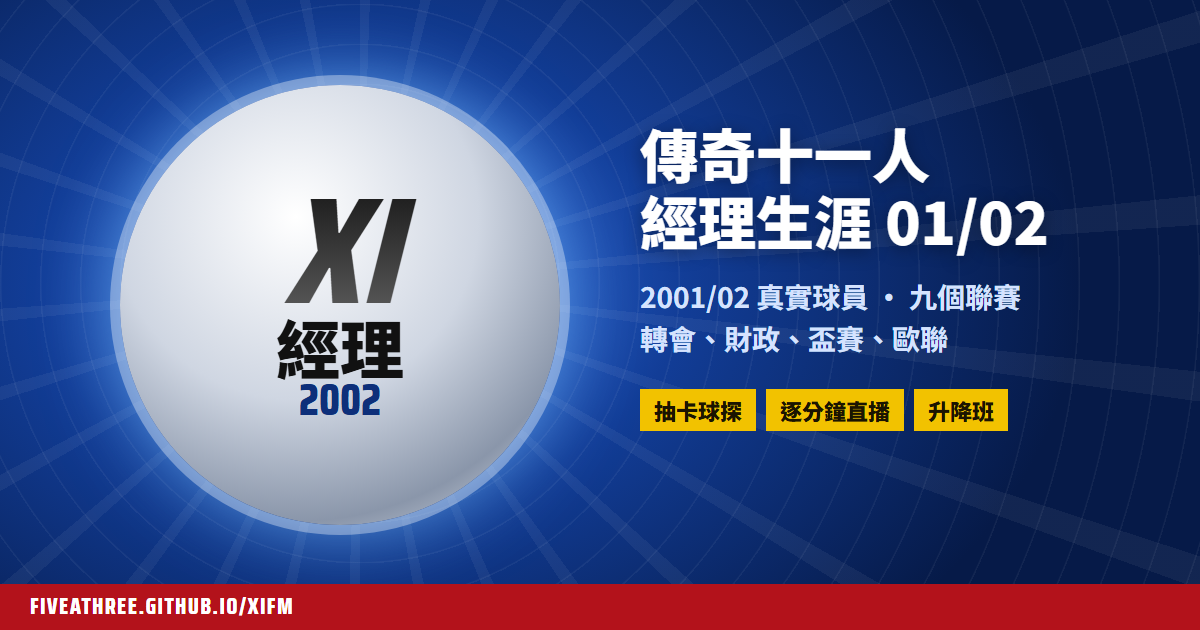
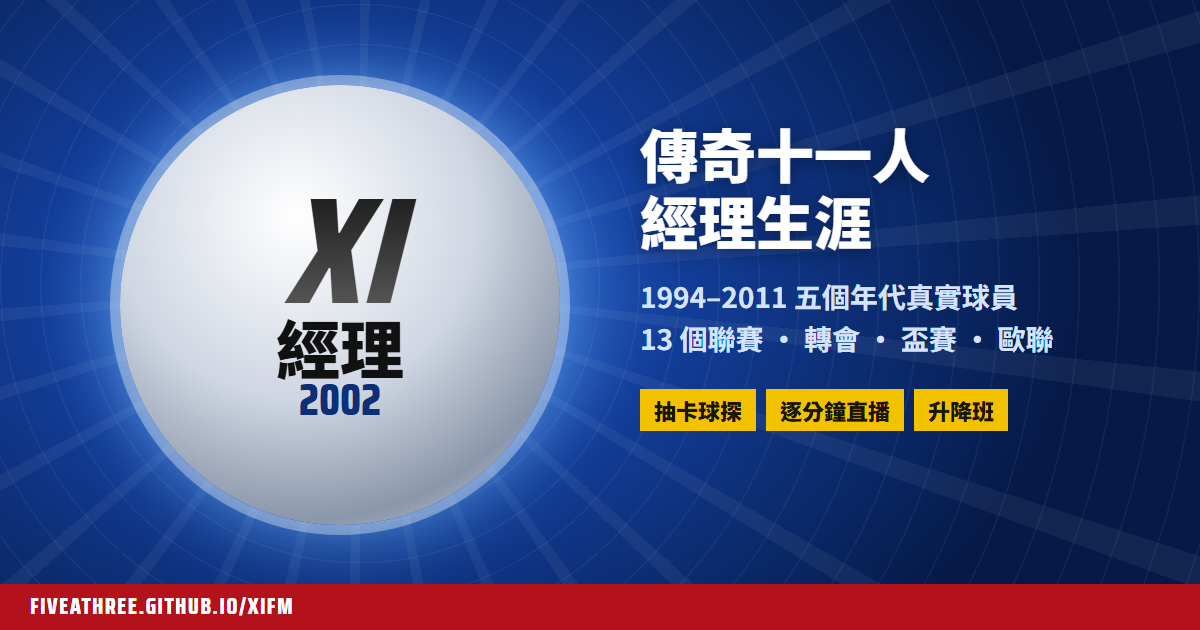
Career mode docs and share image for five eras and 13 leagues

Changed region(s): [[0.5242, 0.4524, 0.8942, 0.573], [0.74, 0.3016, 0.8942, 0.3921]]

diff --git a/fm.html b/fm.html
@@ -4,10 +4,10 @@
 <meta charset="utf-8">
 <meta name="viewport" content="width=device-width,initial-scale=1,viewport-fit=cover">
 <title>XI 經理 2002</title>
-<meta name="description" content="傳奇十一人經理生涯：2001/02 球季真實球員，英格蘭四級聯賽、蘇超、西甲、意甲、德甲、法甲，轉會、財政、盃賽、歐聯，再加抽卡球探。">
+<meta name="description" content="傳奇十一人經理生涯：1994/95 至 2010/11 五個開局球季真實球員，英格蘭四級聯賽、蘇超、西甲、意甲、德甲、法甲、荷甲、葡超、土超、比甲，轉會、財政、盃賽、歐聯，再加抽卡球探。">
 <meta property="og:type" content="website">
 <meta property="og:title" content="XI 經理 2002 · 傳奇十一人經理生涯">
-<meta property="og:description" content="2001/02 真實球員、九個聯賽、轉會財政盃賽歐聯，仲有抽卡球探。">
+<meta property="og:description" content="五個年代真實球員、13 個聯賽、轉會財政盃賽歐聯，仲有抽卡球探。">
 <meta property="og:image" content="https://fiveathree.github.io/XIFM/og-fm.png">
 <meta property="og:url" content="https://fiveathree.github.io/XIFM/fm.html">
 <meta name="twitter:card" content="summary_large_image">

diff --git a/index.html b/index.html
@@ -276,7 +276,7 @@ select{background:var(--night2);border:1px solid var(--line);color:var(--chalk);
   <div class="wrap">
     <div class="hbar">
       <div class="logo">傳奇<b>XI</b><small>FOOTBALL MANAGER</small></div>
-      <a class="fmlink" href="fm.html">經理生涯 01/02 ›</a>
+      <a class="fmlink" href="fm.html">經理生涯 ›</a>
       <div class="coins" title="金幣"><span class="coin"></span><span id="coinv">0</span></div>
     </div>
     <nav class="tabs" role="tablist">

diff --git a/fm/PLAN.md b/fm/PLAN.md
@@ -4,9 +4,9 @@ Goal: a new mode inside XIFM that plays like **EA Sports' *The F.A. Premier Leag
 
 Decisions already made by the user:
 - Lives **inside XIFM as a separate page** `fm.html` (own save, own economy). XIFM's `index.html` gets an entry button.
-- Leagues in v1: **England Premier League + Divisions One/Two/Three, Scottish Premier League, La Liga, Serie A, Bundesliga, French Division 1**, plus 18 European guest clubs for European cups.
+- Leagues: **England Premier League + Divisions One/Two/Three, Scottish Premier League, La Liga, Serie A, Bundesliga, French Division 1, Eredivisie, Portuguese, Turkish and Belgian top flights**, plus 18 European guest clubs for European cups. (The last four were added in Nov 2026; saves made before keep their nine leagues.)
 - **Transfers stay**; gacha is an **extra channel**: a pulled player joins your club straight away (takes a squad place, draws a wage), paid for with club money.
-- **Start with 2001/02 only**; add real new players one season at a time later.
+- **Start seasons (eras): 1994/95, 1998/99, 2001/02, 2004/05, 2010/11**, each with its own real squads (`fm/eras.js`, `fm/data/<year>/`). 2001/02 has the deepest data (~3,700 players); the other eras cover the big clubs well and lower divisions thinly (see DATA_SPEC.md).
 - Follow the user's coding principles: least code, browser-native features first, no framework, no build step. Every page needs a favicon and an og:image. Aim for one screen without page scrolling (panels may scroll inside).
 
 Legal: do **not** use EA / Premier League names, logos or crests, or real club crests. Club badges are generic shields in club colours with the 3-letter short name. Real player and club names are fine. Screen layout may follow the 2001 game's structure, but the art is our own.
@@ -42,6 +42,8 @@ Data quality notes (tell the user, don't hide): Division Three and some small Bu
 
 ## 2. Architecture (keep it)
 
+**Eras** — `fm.html` loads `fm/eras.js`, `core.js`, `match.js`, `ui.js`; `ui.js` then loads one era's data files and calls `indexEra(year)` (core) which fills `LG CL PS CLUBS PLAY_LG` and `ERA` (real CL groups `ERA.cl`, English UEFA entrants `ERA.ueEng`). Switching era reloads with `?era=YYYY` (`&new=1` opens the wizard, `&slot=k` loads a save). A save stores `G.era` and its league list `G.plg`; game-state loops use `PLG()` / `GCL()` (not `PLAY_LG` / `CLUBS`) so old saves without the new leagues keep working. The calendar is the 2001/02 one shifted by 364 days per season, earlier or later. Europe: first season uses `ERA.cl` when given, otherwise qualifiers by reputation (`QSPOTS` per league); later seasons use last season's table.
+
 Plain `<script>` tags, globals, no modules: `FM` registry → `fm/data/*.js` → `fm/core.js` → `fm/match.js` → `fm/ui.js`.
 
 **IDs**
@@ -60,7 +62,7 @@ Plain `<script>` tags, globals, no modules: `FM` registry → `fm/data/*.js` →
 
 **Competitions** (`G.comp`): `t:'L'` league (`tab`), `t:'K'` knockout (`rd` rounds, `ties`, `alive`), `t:'G'` Champions League (8 groups of 4 → two-legged knockout; group thirds drop into UEFA Cup round 3). 2001/02 CL groups are the real ones (`CL01`). Cups: FA Cup, League Cup, Scottish Cup, Copa del Rey, Coppa Italia, DFB-Pokal, Coupe de France, CL, UEFA Cup, English play-offs (po2/po3/po4). Single-leg cup draws go to extra time + penalties (no replays). Clashes are moved by `resolveClashes()`.
 
-**Promotion**: England only (3 down/2 up + play-off winner; Div 2↔3 4 down/3 up + play-off). No relegation out of Division Three, and none in the other countries (no lower divisions in the data).
+**Promotion**: England only (3 down/2 up + play-off winner; Div 2↔3 4 down/3 up + play-off). No relegation out of Division Three, and none in the other countries (no lower divisions in the data). League sizes therefore stay as they start (e.g. the 1994/95 Premier League stays at 22).
 
 **Match engine** (`match.js`): `newMatch(fx, live)` → `step(M)` per minute → `M.pause` = `'ht'` / `'et'` stops a live game until the UI clears it → `finish()` writes results, stats, form, cards/suspensions, injuries, then `recordResult()` in core. Live helpers for the UI: `userSub(M,out,in)`, `userSwap(M,a,b)`, `userForm(M,form)`, and `M[M.u].sty` / `.ord` can be edited mid-match. `runToEnd(M)` = "skip to full time" (AI makes the user's subs). `M.ev` events: `goal miss save tackle yc rc rc2 inj sub ht et pens pmiss ft` with `m` (minute label), `s` ('h'/'a'), `p`, `p2`, `x`. `M.ball` = [x%, y%] for the pitch drawing. `M.mom` = man of the match.
 

diff --git a/fm/DATA_SPEC.md b/fm/DATA_SPEC.md
@@ -60,3 +60,26 @@ Use the player's level IN 2001/02 (age-appropriate: a 17-year-old future star is
 - No player may appear at two clubs in your file.
 - Target squad sizes: top flights 22–28; Division One 18–25; Divisions Two/Three as many as you genuinely recall (aim 14+). Include at least 2 GK per club where you can.
 - Players on loan elsewhere for the whole season belong at the club they played for.
+
+## Eras (start seasons) and the extra leagues
+
+- Each start season has its own folder and entry in `fm/eras.js`: 2001/02 lives in `fm/data/*.js` (the original files), the others in `fm/data/<year>/` (1994, 1998, 2004, 2010). A page loads one era's files; switching era reloads `fm.html?era=YYYY`.
+- League ids are the same in every era: `eng1 eng2 eng3 eng4 sco1 esp1 ita1 ger1 fra1 ned1 por1 tur1 bel1` plus `eur` (18 guest clubs from countries without a league in the game). League size may differ by era (1994/95 Premier League 22, Scottish top flight 10, Portugal/Belgium 16 in 2010/11); the calendar adapts.
+- Money uses the same scale in every era (no inflation adjustment).
+- `{ref:"eur.aja"}` inside a league's `clubs` moves an already-defined club (and its player ids) into that league. Used in 2001/02, where Ajax, PSV, Feyenoord, Porto, Benfica, Sporting, Boavista, Galatasaray, Fenerbahçe, Anderlecht and Club Brugge were first written as guest clubs.
+- Same accuracy rule as above: a club or player we are not reasonably sure of is left out. Thin clubs are padded at game start with `XXX 青年軍 n` players at a level based on the club's reputation (`fillYouth()`).
+
+### Building an era from a compact source
+
+`node tools/fm-build-era.js <source.txt> <year>` writes `fm/data/<year>/*.js`. Source format (one item per line):
+
+```
+@eng1|英超|Premier League|1                  league: id|Chinese|English|tier
+=Manchester United|94|30                      club: name|rep|bank (£m); stadium, capacity, colours, short and id come from the 2001/02 club of the same name
+=Blackpool|56|2|BLA|Bloomfield Road|16220|#F68712,#FFFFFF     …or in full: |short|stadium|cap|col1,col2
+=Basel|70|8|BAS|St. Jakob-Park|38512|#C8102E,#0060A9|SUI      guest club: add its country code
+GK Edwin van der Sar NED 1970 84             player: pos name nation birthYear skill
+ST Ronaldo BRA 1976 92 /Ronaldo               optional short name after " /"
+```
+
+The tool refuses to write if a player name appears twice in the era (two real players with one name need distinct full names, e.g. `Paul P. Robinson`), if a club is unknown without full details, or if a row is malformed. Once an era is published, only append to its files (saves store player ids).

diff --git a/README.md b/README.md
@@ -49,7 +49,8 @@
 
 主頁右上角「經理生涯 01/02」入去。玩法似 2001 年嘅經典足球經理遊戲，獨立存檔，唔影響上面嘅卡冊同金幣。
 
-- **2001/02 真實球員**：英超、英甲、英乙、英丙、蘇超、西甲、意甲、德甲、法甲，加 18 隊歐洲球會，大約 3,670 個球員
+- **五個開局球季**：1994/95、1998/99、2001/02、2004/05、2010/11，每個年代都係嗰季嘅真實球員同球隊（開新遊戲時揀）
+- **13 個聯賽**：英格蘭四級、蘇超、西甲、意甲、德甲、法甲、荷甲、葡超、土超、比甲，加 18 隊歐洲球會；每個聯賽都有自己嘅盃賽
 - **一日一日推進**：撳「下一日 ▶」；「⏩ 到比賽」會一直推到下場比賽、收到報價或者有工作邀請先停
 - **比賽直播**：逐分鐘旁述同球場動畫，1×／2×／4× 速度；半場同加時會停低畀你換人（最多 3 個）、改陣式同打法；可以跳到完場
 - **陣容**：撳一個球員再撳另一個就對調；每人可以設個人指令（盤扭、傳中、遠射等）
@@ -60,7 +61,7 @@
 - **存檔**：3 個存檔位，自動儲存；可以匯出／匯入去第二部機
 - **秘技**：連撳左上角隊徽 5 下，`GOAT` 開／關無限資金，`SIUUU` +£100m
 
-資料限制：英丙同部分細會球員偏少，唔夠 18 人會用標明「青年軍」嘅填充球員補上；能力值係我哋自己估，唔係原版遊戲數字；盃賽冇重賽，歐聯得一輪分組賽，只有英格蘭有升降班。
+資料限制：2001/02 資料最齊（大約 3,700 個真實球員）；其他年代大球會齊，細會同英格蘭低級別球員偏少。唔夠 18 人嘅球隊會用標明「青年軍」嘅填充球員補上，水平按球會聲望。能力值係我哋自己估，唔係原版遊戲數字；盃賽冇重賽，歐聯一律用 32 隊分組，只有英格蘭有升降班。
 
 ## 開發
 

diff --git a/CLAUDE.md b/CLAUDE.md
@@ -17,7 +17,8 @@ Football-manager × gacha web game. UI language is Cantonese (Traditional Chines
 | `tools/check-data.js` | Data / card-ID stability check (see below). Not loaded by the game. |
 | `fm.html`, `fm/` | **經理生涯模式 (career mode, XI 經理 2002).** Separate page and save (`localStorage['xifm-fm-<slot>']`). `fm.html` = CSS + shell; `fm/data/*.js` → `fm/core.js` → `fm/match.js` → `fm/ui.js` (screens). Read [`fm/PLAN.md`](fm/PLAN.md) first: architecture, UI conventions, remaining ideas. Data format: `fm/DATA_SPEC.md`. |
 | `fm/favicon.svg`, `og-fm.png`, `og-xifm.png` | Career-mode favicon; share images (1200×630) for `fm.html` and `index.html`. |
-| `tools/fm-check-data.js`, `tools/fm-sim.js`, `tools/fm-sim-season.js` | Career-mode data validator and headless season simulator: `node tools/fm-sim.js tools/fm-sim-season.js` (run from the repo root; keep goals/game ≈ 2.5–2.7 after engine changes). |
+| `tools/fm-check-data.js`, `tools/fm-sim.js`, `tools/fm-sim-season.js` | Career-mode data validator and headless season simulator: `node tools/fm-sim.js tools/fm-sim-season.js` (run from the repo root; `FM_ERA=1994` etc. for another era; keep goals/game ≈ 2.5–2.7 after engine changes). |
+| `fm/eras.js`, `tools/fm-build-era.js` | Career-mode start seasons (1994, 1998, 2001, 2004, 2010) and the tool that builds an era's data files from a compact text source (format in `fm/DATA_SPEC.md`). |
 
 No build step, no dependencies, no framework. Plain DOM + template strings. Only external resource is Google Fonts (Saira Condensed, Noto Sans TC).
 
